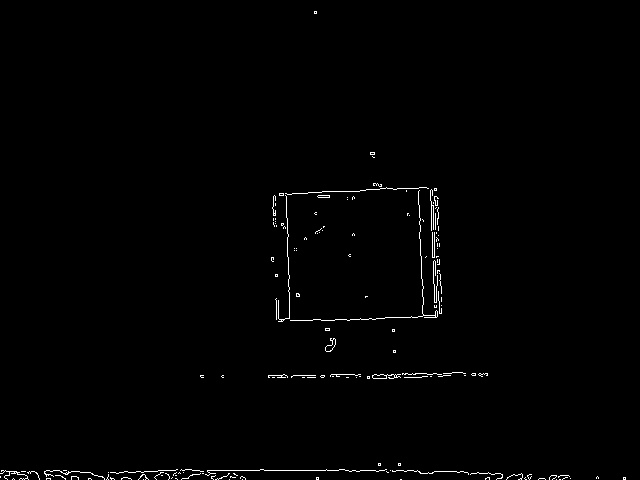
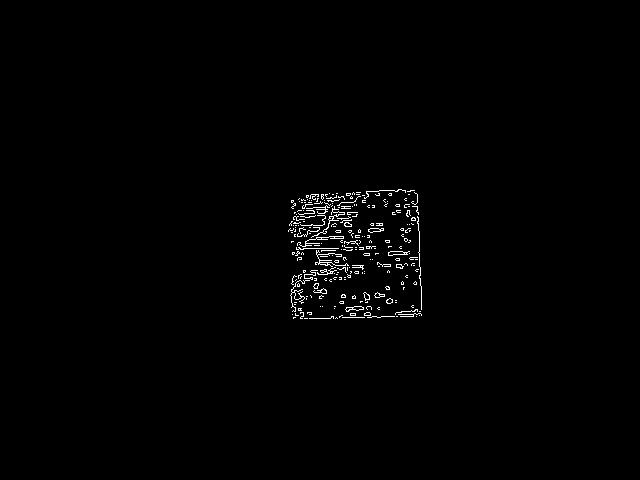
thresholding lower bounds fixed
need to fill square with hull ?

diff --git a/src/thresholding.py b/src/thresholding.py
@@ -13,13 +13,17 @@ def threshold(z):
   (hue, sat, val)  = cv2.split(hsv)
   hf, hue  = cv2.threshold(hue, 255, 255, cv2.THRESH_BINARY)   #0,20
   sf, sat  = cv2.threshold(sat, 255, 255, cv2.THRESH_BINARY)   #0,20
-  vf, val  = cv2.threshold(val, 45, 255, cv2.THRESH_BINARY)  #30,45
+  vf, val  = cv2.threshold(val, 10, 255, cv2.THRESH_BINARY)  #30,45
   mrgd = cv2.merge([hue, sat, val])    #threshold for just the black square
   bgr = cv2.cvtColor(mrgd, cv2.COLOR_HSV2BGR)
   gray = cv2.cvtColor(bgr, cv2.COLOR_BGR2GRAY)
   mask = ors.cntr(gray)
   edges = cv2.Canny(mask,100,200)
   cv2.imshow('mask',edges)
+  cv2.imshow('hue',hue)
+  cv2.imshow('sat',sat)
+  cv2.imshow('val',val)
+
   cv2.imwrite("../images/t-{0}".format(z), edges)
   if cv2.waitKey(0) & 0xff == 27:  #escape
     cv2.destroyAllWindows()
